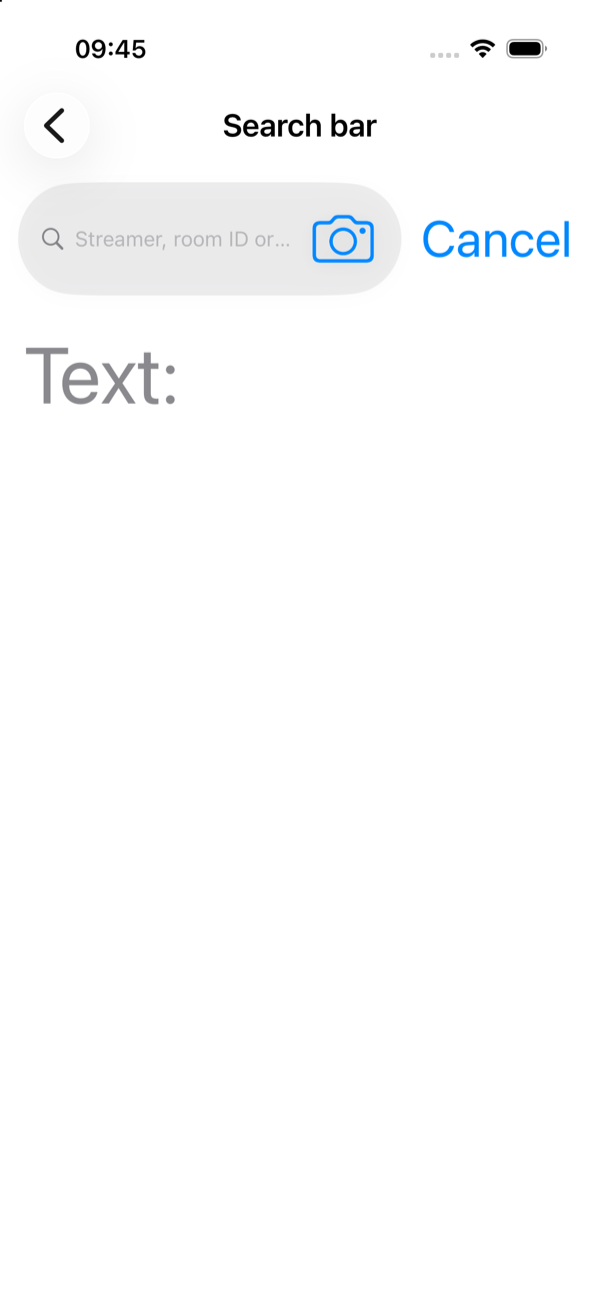
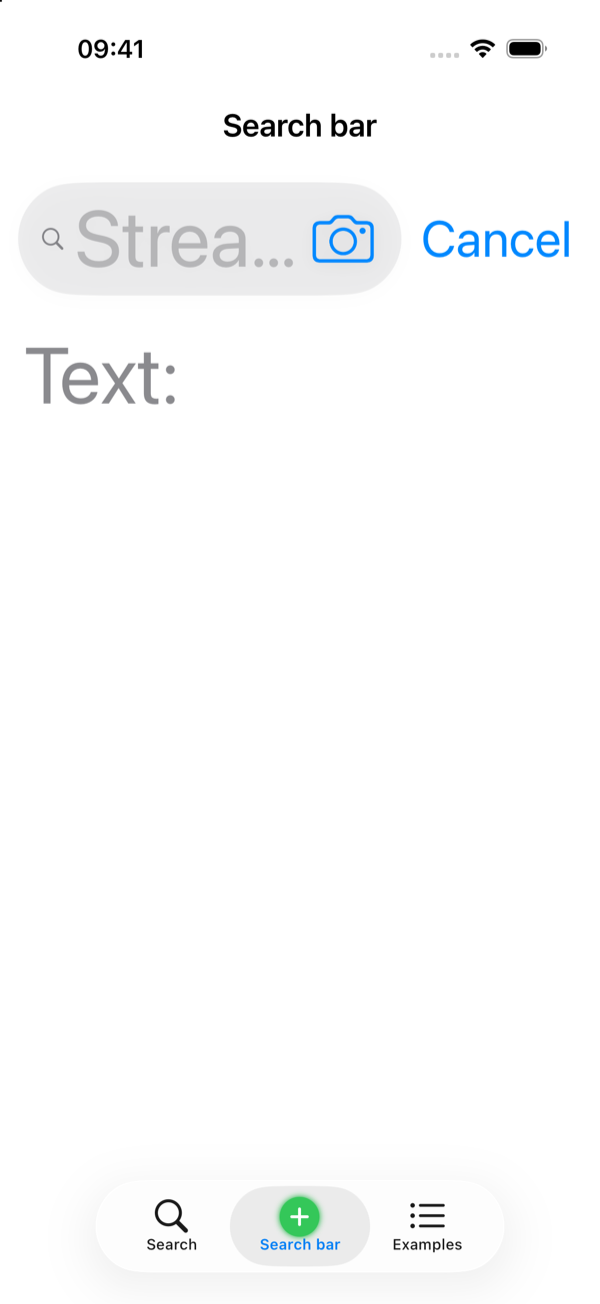
CI结束后，合并分支，以下分支
Please Summary of the code update and dialogue (Automatic submission，2026-11-12 11:30）

By: @ChenYilong

diff --git a/Sources/CYLSearchViewController/CYLSearchBarView.m b/Sources/CYLSearchViewController/CYLSearchBarView.m
@@ -58,6 +58,14 @@ static CGFloat const CYLSearchBarMinimumAccessoryScale = 0.25;
     _textField.accessibilityLabel = [CYLSearchResources localizedStringForKey:@"search.field"];
     [_textField addTarget:self action:@selector(cyl_textChanged) forControlEvents:UIControlEventEditingChanged];
     [_fieldView addSubview:_textField];
+    // The placeholder is drawn by this label at the full font size and cut off with an ellipsis when it does not
+    // fit: UITextField's own placeholder shrinks to a quarter of the size at large Dynamic Type sizes. The text
+    // field keeps the placeholder (in a clear color) for VoiceOver.
+    _placeholderLabel = [[UILabel alloc] init];
+    _placeholderLabel.lineBreakMode = NSLineBreakByTruncatingTail;
+    _placeholderLabel.isAccessibilityElement = NO;
+    _placeholderLabel.userInteractionEnabled = NO;
+    [_fieldView addSubview:_placeholderLabel];
     UIButtonConfiguration *configuration = [UIButtonConfiguration plainButtonConfiguration];
     configuration.contentInsets = NSDirectionalEdgeInsetsMake(0, 4, 0, 4);
     _cancelButton = [UIButton buttonWithConfiguration:configuration primaryAction:nil];
@@ -72,11 +80,15 @@ static CGFloat const CYLSearchBarMinimumAccessoryScale = 0.25;
 #pragma mark Properties
 
 - (NSString *)text { return self.textField.text; }
-- (void)setText:(NSString *)text { self.textField.text = text; }
+- (void)setText:(NSString *)text {
+    self.textField.text = text;
+    [self cyl_updatePlaceholderVisibility];
+}
 
 - (NSString *)placeholder { return self.textField.placeholder; }
 - (void)setPlaceholder:(NSString *)placeholder {
     self.textField.placeholder = placeholder;
+    self.placeholderLabel.text = placeholder;
     [self cyl_applyStyle];
 }
 
@@ -153,11 +165,15 @@ static CGFloat const CYLSearchBarMinimumAccessoryScale = 0.25;
 - (void)cyl_applyStyle {
     self.textField.font = self.font;
     self.textField.textColor = self.textColor;
-    if (self.placeholderColor && self.textField.placeholder) {
-        self.textField.attributedPlaceholder = [[NSAttributedString alloc] initWithString:self.textField.placeholder
-                                                                               attributes:@{NSForegroundColorAttributeName: self.placeholderColor,
+    NSString *placeholder = self.placeholderLabel.text;
+    if (placeholder.length > 0) {
+        self.textField.attributedPlaceholder = [[NSAttributedString alloc] initWithString:placeholder
+                                                                               attributes:@{NSForegroundColorAttributeName: UIColor.clearColor,
                                                                                             NSFontAttributeName: self.font}];
     }
+    self.placeholderLabel.font = self.font;
+    self.placeholderLabel.textColor = self.placeholderColor ?: UIColor.placeholderTextColor;
+    [self cyl_updatePlaceholderVisibility];
     self.fieldView.backgroundColor = self.fieldBackgroundColor;
     self.fieldView.layer.borderColor = [self.fieldBorderColor resolvedColorWithTraitCollection:self.traitCollection].CGColor;
     self.fieldView.layer.borderWidth = self.fieldBorderColor ? self.fieldBorderWidth : 0;
@@ -275,11 +291,18 @@ static CGSize CYLSearchBarFittingSize(UIView *view, CGFloat height) {
         end -= width + CYLSearchBarSpacing * accessoryScale;
     }
     self.textField.frame = CGRectMake(x, 0, MAX(0, end - x), fieldHeight);
+    CGRect textRect = [self.textField textRectForBounds:self.textField.bounds];
+    self.placeholderLabel.frame = CGRectOffset(textRect, CGRectGetMinX(self.textField.frame), CGRectGetMinY(self.textField.frame));
 }
 
 #pragma mark Events
 
+- (void)cyl_updatePlaceholderVisibility {
+    self.placeholderLabel.hidden = self.textField.text.length > 0;
+}
+
 - (void)cyl_textChanged {
+    [self cyl_updatePlaceholderVisibility];
     if ([self.delegate respondsToSelector:@selector(searchBarView:textDidChange:)]) {
         [self.delegate searchBarView:self textDidChange:self.textField.text ?: @""];
     }

diff --git a/CYLSearchExampleTests/CYLSearchExampleTests.m b/CYLSearchExampleTests/CYLSearchExampleTests.m
@@ -440,6 +440,22 @@ static NSArray<NSString *> *CYLViewsCoveredByView(UIView *view, UIView *root)
     XCTAssertLessThanOrEqual(CGRectGetMaxX(bar.textField.frame), CGRectGetMinX(camera.frame) + 0.5);
     XCTAssertLessThanOrEqual(CGRectGetMaxX(camera.frame), CGRectGetWidth(bar.fieldView.bounds));
     XCTAssertEqualObjects(bar.cancelButton.accessibilityLabel, @"Cancel", @"VoiceOver reads the whole title");
+
+    // The placeholder keeps the text's size at large sizes (cut off with an ellipsis, never shrunk), hides while
+    // there is text, and stays on the text field for VoiceOver.
+    bar.placeholder = @"主播昵称/直播间ID/神曲名";
+    [bar layoutIfNeeded];
+    XCTAssertEqual(bar.placeholderLabel.font.pointSize, bar.font.pointSize);
+    XCTAssertFalse(bar.placeholderLabel.adjustsFontSizeToFitWidth);
+    XCTAssertEqual(bar.placeholderLabel.lineBreakMode, NSLineBreakByTruncatingTail);
+    XCTAssertEqualObjects(bar.placeholderLabel.text, @"主播昵称/直播间ID/神曲名");
+    XCTAssertEqualObjects(bar.textField.placeholder, @"主播昵称/直播间ID/神曲名", @"VoiceOver still gets the placeholder");
+    XCTAssertTrue(CGRectContainsRect(CGRectInset(bar.textField.frame, -0.5, -0.5), bar.placeholderLabel.frame));
+    XCTAssertFalse(bar.placeholderLabel.hidden);
+    bar.text = @"IDG";
+    XCTAssertTrue(bar.placeholderLabel.hidden);
+    bar.text = nil;
+    XCTAssertFalse(bar.placeholderLabel.hidden);
 }
 
 - (void)testSearchBarDemoRow
@@ -597,25 +613,6 @@ static NSArray<NSString *> *CYLViewsCoveredByView(UIView *view, UIView *root)
         XCTAssertEqual(covered.count, 0, @"overlay: %@", covered);
     }
     window.hidden = YES;
-}
-
-- (void)testZZProbePlaceholder
-{
-    UIWindow *window = CYLTestWindow(CGRectMake(0, 0, 402, 874));
-    UIViewController *c = [UIViewController new];
-    window.rootViewController = c; [window makeKeyAndVisible];
-    if (@available(iOS 17.0, *)) window.traitOverrides.preferredContentSizeCategory = UIContentSizeCategoryAccessibilityExtraExtraExtraLarge;
-    CYLSearchBarView *bar = [[CYLSearchBarView alloc] initWithFrame:CGRectZero];
-    bar.placeholder = @"主播昵称/直播间ID/神曲名";
-    bar.placeholderColor = UIColor.grayColor;
-    bar.showsCancelButton = YES; bar.cancelButtonTitle = @"取消";
-    [c.view addSubview:bar];
-    [NSRunLoop.mainRunLoop runUntilDate:[NSDate dateWithTimeIntervalSinceNow:0.3]];
-    bar.frame = CGRectMake(0, 100, 402, bar.intrinsicContentSize.height);
-    [bar layoutIfNeeded];
-    UILabel *ph = nil;
-    for (UIView *v in bar.textField.subviews) { if ([v isKindOfClass:UILabel.class]) ph = (UILabel *)v; for (UIView *w in v.subviews) if ([w isKindOfClass:UILabel.class]) ph = (UILabel *)w; }
-    NSLog(@"CYLPROBE field font %.1f adjusts %d min %.1f fieldW %.1f ph font %.1f adjusts %d scale %.2f phFrame %@ text %@", bar.textField.font.pointSize, bar.textField.adjustsFontSizeToFitWidth, bar.textField.minimumFontSize, bar.textField.frame.size.width, ph.font.pointSize, ph.adjustsFontSizeToFitWidth, ph.minimumScaleFactor, NSStringFromCGRect(ph.frame), ph.text);
 }
 
 @end

diff --git a/Sources/CYLSearchViewController/CYLSearchBarView.h b/Sources/CYLSearchViewController/CYLSearchBarView.h
@@ -37,6 +37,12 @@ NS_ASSUME_NONNULL_BEGIN
 @property (nonatomic, strong, readonly) UIView *fieldView;
 @property (nonatomic, strong, readonly) UIImageView *searchIconView;
 @property (nonatomic, strong, readonly) UIButton *cancelButton;
+/*!
+ * Draws the placeholder at the text's font size, cut off with an ellipsis when it does not fit (UITextField's own
+ * placeholder shrinks at large Dynamic Type sizes). Hidden while there is text. Read-only styling hook; set the
+ * text with `placeholder`.
+ */
+@property (nonatomic, strong, readonly) UILabel *placeholderLabel;
 
 @property (nonatomic, copy, nullable) NSString *text;
 @property (nonatomic, copy, nullable) NSString *placeholder;
